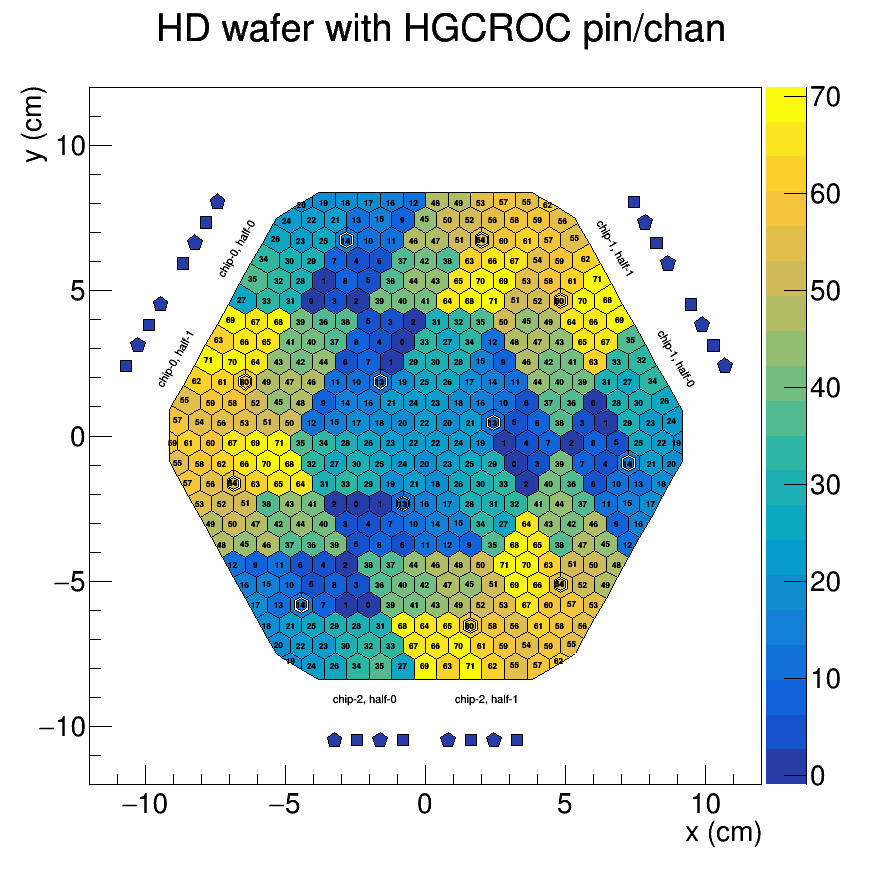
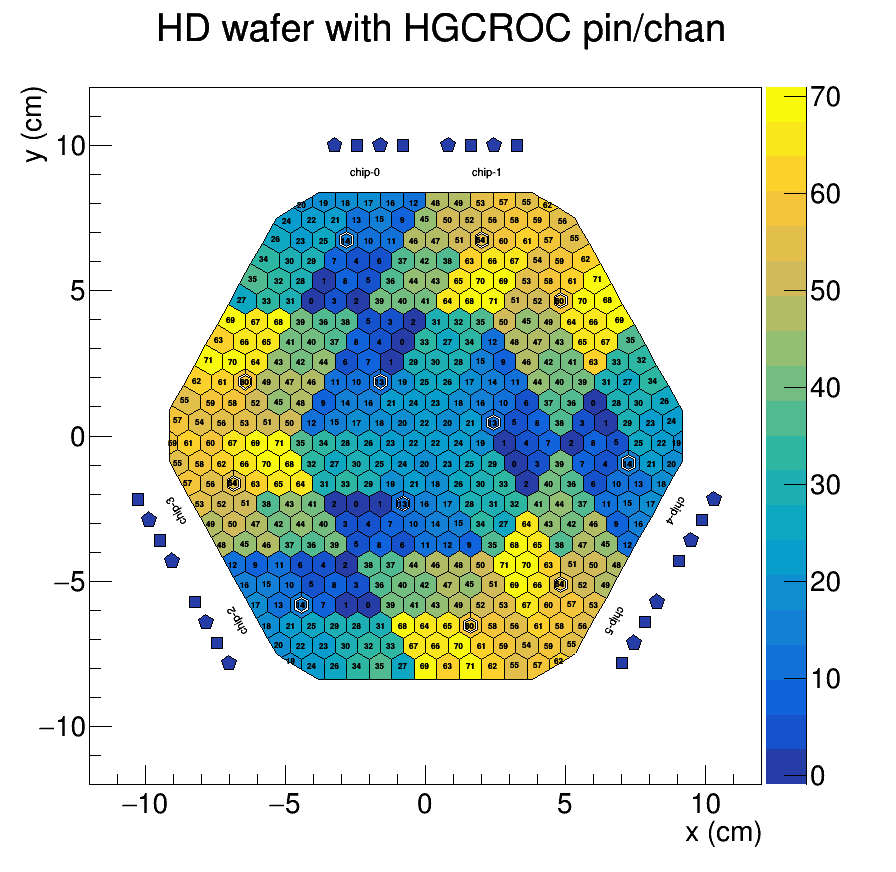
Mark chip info on the HD wafer map

diff --git a/th2poly.C b/th2poly.C
@@ -238,40 +238,73 @@ void beautify_plot(bool drawLine = true, bool drawText = true, TString NameTag =
         text.SetTextFont(43);
         text.SetTextSize(12);
 
-        double theta1 = -TMath::Pi()/3.;
-        double theta2 = TMath::Pi()/3.;
-        double theta3 = TMath::Pi();
-        std::vector<double> theta_angle_text = {60, 60, -60, -60, 0, 0};
-        std::vector<double> theta_coordinate_text = {theta1, theta1, theta2, theta2, theta3, theta3};
-        //std::vector<double> x_coordinate_text = {-6.25, 6.25, -5, 7.5, -6.25, 6.25};
-        std::vector<double> x_coordinate_text = {-6.25, 6.25, -6.25, 6.25, -6.25, 6.25};
-        std::vector<double> y_coordinate_text = {26, 26, 26, 26, 26, 26};
-        std::vector<TString> v_texts = {"chip-0, half-1", "chip-0, half-0",
-                                        "chip-1, half-1", "chip-1, half-0",
-                                        "chip-2, half-1", "chip-2, half-0"};
+        if(NameTag.Contains("HD")) {
+            double theta1 = 0.;
+            double theta2 = 4*TMath::Pi()/3.;
+            double theta3 = 2*TMath::Pi()/3.;
 
-        double arbUnit_to_cm = 6.9767/20.;
+            std::vector<double> theta_angle_text = {0, 0, 120, 120, -120, -120};
+            std::vector<double> theta_coordinate_text = {theta1, theta1, theta2, theta2, theta3, theta3};
 
-        // evaluate (r, phi) and apply rotation
-        for(int i=0; i<6; ++i) {
-            if(NameTag.Contains("partial") && (i==2||i==3||i==4)) continue;
-            text.SetTextAngle(theta_angle_text[i]);
-            double theta = theta_coordinate_text[i];
-            double cos_theta = TMath::Cos(theta);
-            double sin_theta = TMath::Sin(theta);
+            std::vector<double> x_coordinate_text = {-6.25, 6.25, -6.25, 6.25, -6.25, 6.25};
+            std::vector<double> y_coordinate_text = {26, 26, 26, 26, 26, 26};
+            std::vector<TString> v_texts = {"chip-0", "chip-1", "chip-2", "chip-3", "chip-4", "chip-5"};
 
-            double x = x_coordinate_text[i];
-            double y = y_coordinate_text[i];
-            double r = sqrt(pow(x,2)+pow(y,2));
-            double cos_phi = x/r;
-            double sin_phi = y/r;
-            x = r*(cos_phi*cos_theta + sin_phi*sin_theta)*arbUnit_to_cm;
-            y = r*(sin_phi*cos_theta - cos_phi*sin_theta)*arbUnit_to_cm;
+            double arbUnit_to_cm = 6.9767/20.;
 
-            if(NameTag.Contains("partial") && (i==5))
-                text.DrawText(x, y, "chip-1, half-0");
-            else
+            // evaluate (r, phi) and apply rotation
+            for(int i=0; i<6; ++i) {
+                text.SetTextAngle(theta_angle_text[i]);
+                double theta = theta_coordinate_text[i];
+                double cos_theta = TMath::Cos(theta);
+                double sin_theta = TMath::Sin(theta);
+
+                double x = x_coordinate_text[i];
+                double y = y_coordinate_text[i];
+                double r = sqrt(pow(x,2)+pow(y,2));
+                double cos_phi = x/r;
+                double sin_phi = y/r;
+                x = r*(cos_phi*cos_theta + sin_phi*sin_theta)*arbUnit_to_cm;
+                y = r*(sin_phi*cos_theta - cos_phi*sin_theta)*arbUnit_to_cm;
+
                 text.DrawText(x, y, v_texts[i]);
+            }
+
+        } else { // LD
+            double theta1 = -TMath::Pi()/3.;
+            double theta2 = TMath::Pi()/3.;
+            double theta3 = TMath::Pi();
+            std::vector<double> theta_angle_text = {60, 60, -60, -60, 0, 0};
+            std::vector<double> theta_coordinate_text = {theta1, theta1, theta2, theta2, theta3, theta3};
+            std::vector<double> x_coordinate_text = {-6.25, 6.25, -6.25, 6.25, -6.25, 6.25};
+            std::vector<double> y_coordinate_text = {26, 26, 26, 26, 26, 26};
+            std::vector<TString> v_texts = {"chip-0, half-1", "chip-0, half-0",
+                                            "chip-1, half-1", "chip-1, half-0",
+                                            "chip-2, half-1", "chip-2, half-0"};
+
+            double arbUnit_to_cm = 6.9767/20.;
+
+            // evaluate (r, phi) and apply rotation
+            for(int i=0; i<6; ++i) {
+                if(NameTag.Contains("partial") && (i==2||i==3||i==4)) continue;
+                text.SetTextAngle(theta_angle_text[i]);
+                double theta = theta_coordinate_text[i];
+                double cos_theta = TMath::Cos(theta);
+                double sin_theta = TMath::Sin(theta);
+
+                double x = x_coordinate_text[i];
+                double y = y_coordinate_text[i];
+                double r = sqrt(pow(x,2)+pow(y,2));
+                double cos_phi = x/r;
+                double sin_phi = y/r;
+                x = r*(cos_phi*cos_theta + sin_phi*sin_theta)*arbUnit_to_cm;
+                y = r*(sin_phi*cos_theta - cos_phi*sin_theta)*arbUnit_to_cm;
+
+                if(NameTag.Contains("partial") && (i==5))
+                    text.DrawText(x, y, "chip-1, half-0");
+                else
+                    text.DrawText(x, y, v_texts[i]);
+            }
         }
     }
 }

diff --git a/toolbox/polygon_manager.py b/toolbox/polygon_manager.py
@@ -140,7 +140,7 @@ class PolygonManager:
             if self.waferType == "HD":
                 x = tg.Coordinates_CM_channels[self.waferType]['x'][self.cellIdx%8]
                 y = tg.Coordinates_CM_channels[self.waferType]['y'][self.cellIdx%8]
-                theta = 2*math.pi/3. * (self.cellIdx//8) - math.pi/3.
+                theta = 2*math.pi/3. * (self.cellIdx//8)
             elif self.waferType == "full":
                 x = tg.Coordinates_CM_channels[self.waferType]['x'][self.cellIdx%4]
                 y = tg.Coordinates_CM_channels[self.waferType]['y'][self.cellIdx%4]

diff --git a/toolbox/geometry.py b/toolbox/geometry.py
@@ -106,8 +106,8 @@ Coordinates_CM_channels = {
 	    'y' : [29, 29, 29, 29],
     },
     "HD": {
-	    'x' : [14., 10.5, 7.0, 3.5, -3.5, -7.0, -10.5, -14.],
-	    'y' : [45, 45, 45, 45, 45, 45, 45, 45],
+	    'x' : [-14., -10.5, -7.0, -3.5, 3.5, 7.0, 10.5, 14.],
+	    'y' : [43, 43, 43, 43, 43, 43, 43, 43],
     },
 }
 
